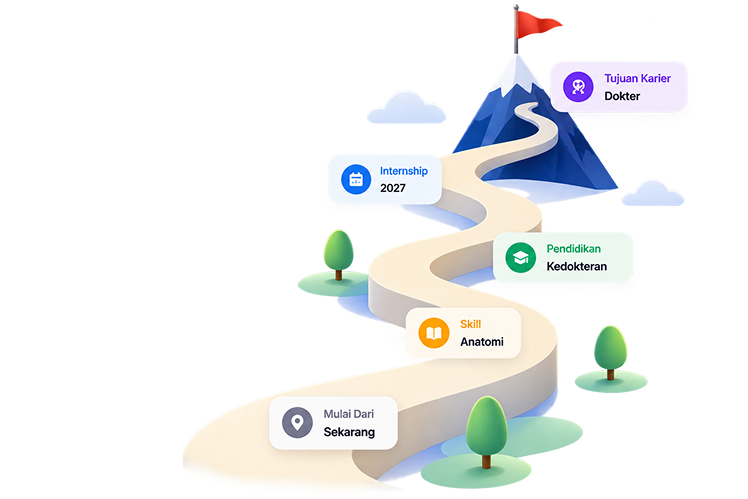
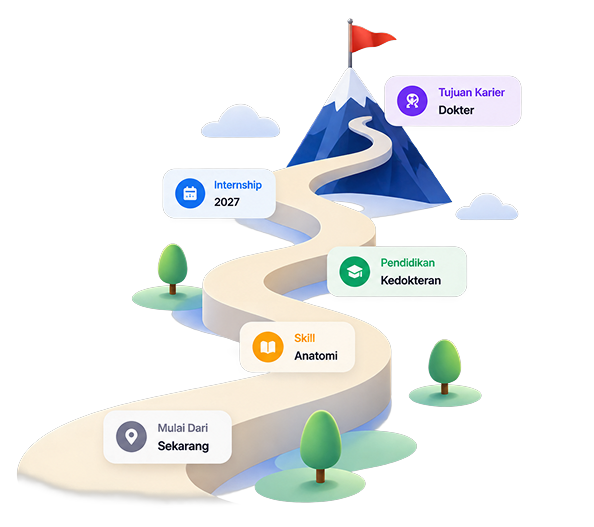
fix: re-center hero illustration and add purple glow behind it
The exported hero-roadmap.png had a lopsided transparent margin (180px
left vs 2px right), making the mountain graphic hug the right edge
instead of sitting centered — most noticeable on mobile. Re-crop the
asset to its content bounds with even padding, and add a soft purple
radial glow behind the hero illustration to match the Figma background.

diff --git a/frontend/src/app/page.tsx b/frontend/src/app/page.tsx
@@ -74,7 +74,9 @@ export default function LandingPage() {
     <div className="w-full bg-white text-slate-900">
       {/* Hero */}
       <section className="relative overflow-hidden bg-gradient-to-b from-indigo-50 via-purple-50/60 to-white">
-        <div className="max-w-7xl mx-auto px-4 sm:px-6 lg:px-8 py-16 sm:py-20 lg:py-24 grid lg:grid-cols-2 gap-12 items-center">
+        <div className="absolute top-0 right-0 w-[36rem] h-[36rem] translate-x-1/4 -translate-y-1/4 rounded-full bg-gradient-to-br from-purple-300/50 via-indigo-300/40 to-transparent blur-3xl pointer-events-none" />
+
+        <div className="relative max-w-7xl mx-auto px-4 sm:px-6 lg:px-8 py-16 sm:py-20 lg:py-24 grid lg:grid-cols-2 gap-12 items-center">
           <div className="text-center lg:text-left">
             <div className="inline-flex items-center gap-1.5 px-3 py-1 rounded-full bg-white text-indigo-600 text-xs font-bold shadow-sm border border-indigo-100">
               <Sparkles className="w-3.5 h-3.5" />
